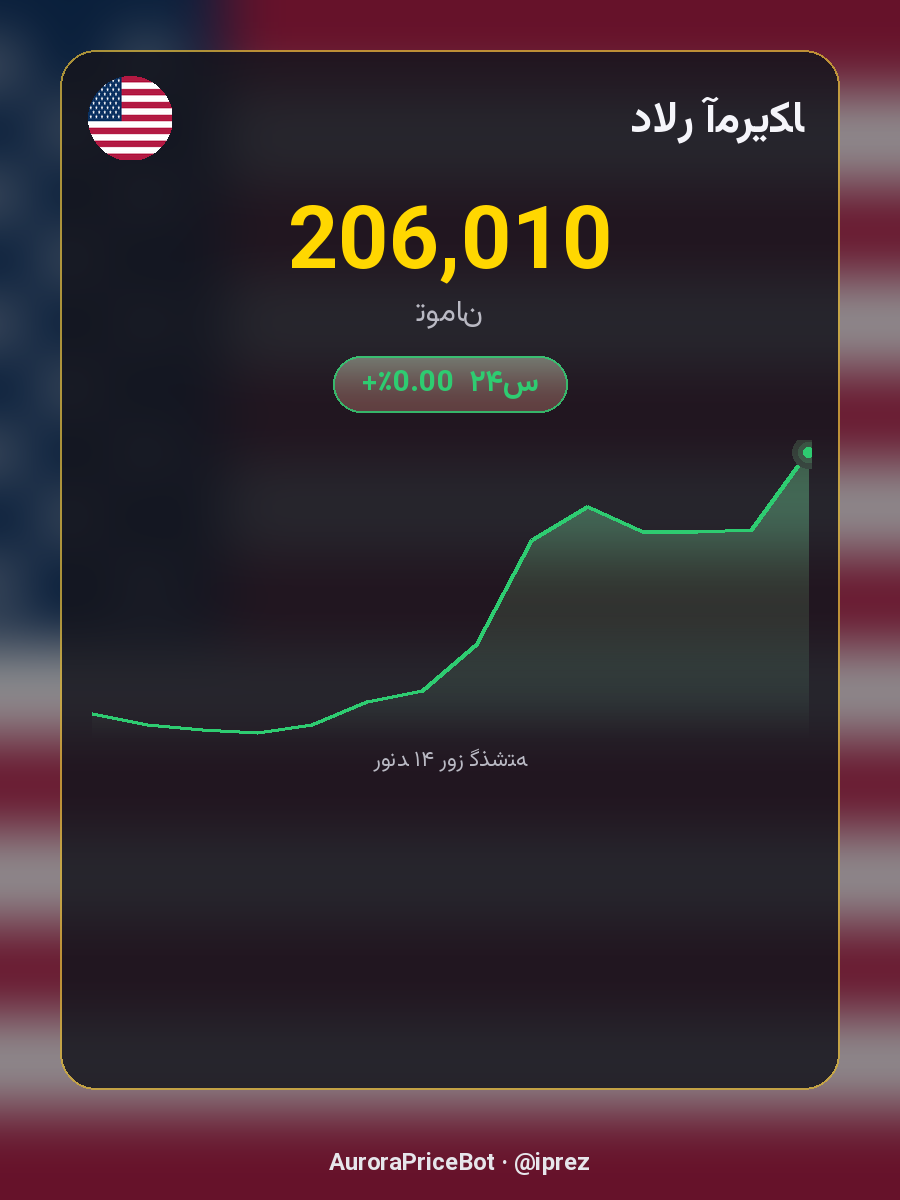
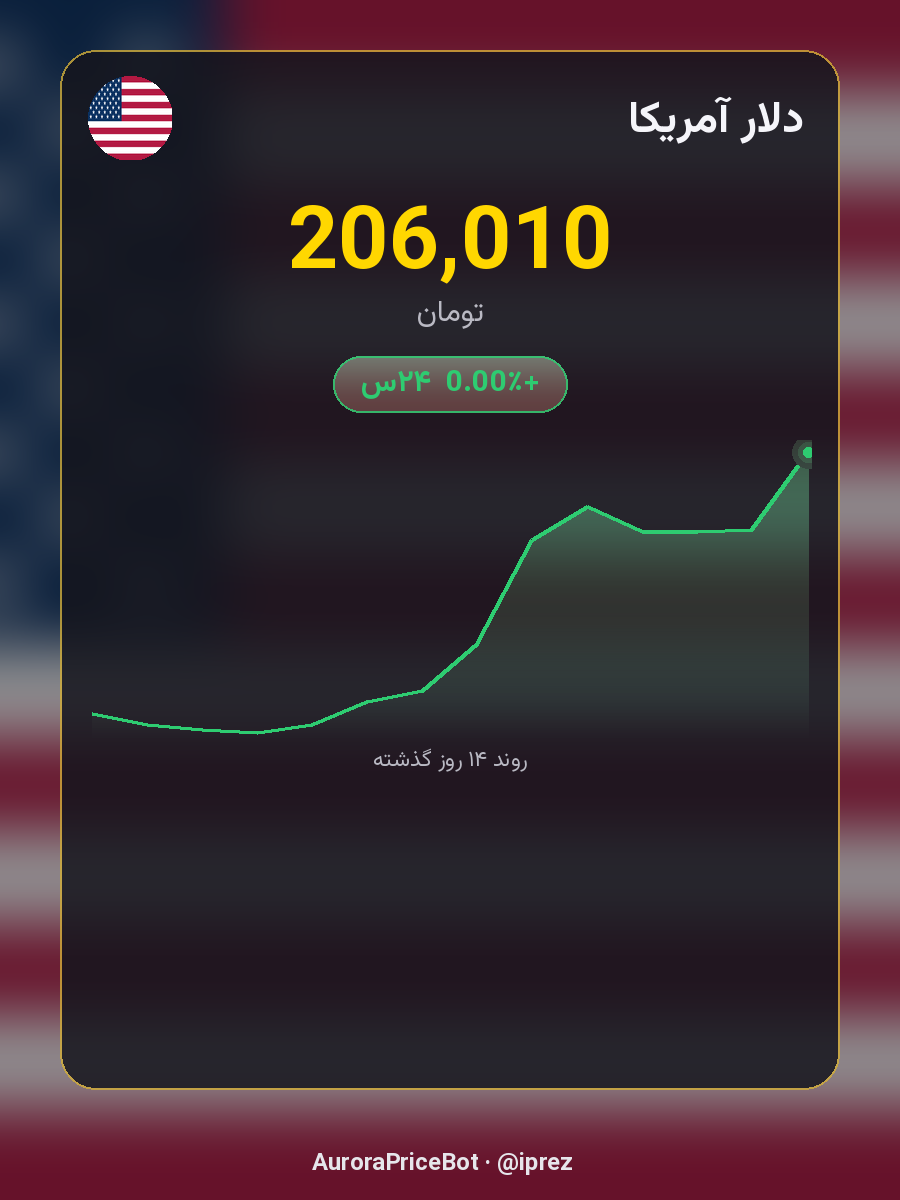
fix: Persian text direction — use libraqm direction='rtl' (bidi was reversing)

diff --git a/banner.py b/banner.py
@@ -27,9 +27,8 @@ W, H = 900, 1200
 
 
 def _fa(text: str) -> str:
-    import arabic_reshaper
-    from bidi.algorithm import get_display
-    return get_display(arabic_reshaper.reshape(str(text)))
+    """متن فارسی خام — چون از direction='rtl' در PIL (libraqm) استفاده میکنیم."""
+    return str(text)
 
 
 def _font(size: int, weight: str = "m") -> ImageFont.FreeTypeFont:
@@ -180,7 +179,7 @@ def render_banner(code: str) -> Optional[bytes]:
     # --- عنوان + پرچم ---
     f_title = _font(44, "b")
     title = data["name"]
-    cd.text((cw - 36, y), _fa(title), font=f_title, fill=WHITE, anchor="ra")
+    cd.text((cw - 36, y), _fa(title), font=f_title, fill=WHITE, anchor="ra", direction='rtl')
 
     # پرچم/آیکون دایرهای
     icon_img = _fetch_bg_image(code)
@@ -203,10 +202,10 @@ def render_banner(code: str) -> Optional[bytes]:
     f_price = _font(88, "b")
     unit = data["unit"]
     price_txt = f"{_fmt(price)} {unit if unit=='دلار' else ''}".strip()
-    cd.text((cw // 2, y + 50), _fa(price_txt), font=f_price, fill=GOLD_BRIGHT, anchor="mm")
+    cd.text((cw // 2, y + 50), _fa(price_txt), font=f_price, fill=GOLD_BRIGHT, anchor="mm", direction='rtl')
     if unit == "تومان":
         f_unit = _font(30, "r")
-        cd.text((cw // 2, y + 118), _fa("تومان"), font=f_unit, fill=GRAY, anchor="mm")
+        cd.text((cw // 2, y + 118), _fa("تومان"), font=f_unit, fill=GRAY, anchor="mm", direction='rtl')
     y += 160
 
     # --- باکس تغییرات ---
@@ -221,7 +220,7 @@ def render_banner(code: str) -> Optional[bytes]:
         bx2 = cw // 2 + tw / 2 + 28
         cd.rounded_rectangle((bx1, y, bx2, y + 56), radius=28, fill=color + (46,),
                              outline=color + (220,), width=2)
-        cd.text((cw // 2, y + 28), _fa(label), font=f_chg, fill=color, anchor="mm")
+        cd.text((cw // 2, y + 28), _fa(label), font=f_chg, fill=color, anchor="mm", direction='rtl')
         y += 84
 
     # --- نمودار ---
@@ -234,7 +233,7 @@ def render_banner(code: str) -> Optional[bytes]:
         # کپشن نمودار
         f_cap = _font(22, "r")
         cap = "روند ۱۴ روز گذشته" if unit == "تومان" else "روند ۷ روز گذشته (ساعتی)"
-        cd.text((cw // 2, y), _fa(cap), font=f_cap, fill=GRAY, anchor="mm")
+        cd.text((cw // 2, y), _fa(cap), font=f_cap, fill=GRAY, anchor="mm", direction='rtl')
         y += 40
 
     # ---- ترکیب نهایی ----
@@ -245,7 +244,7 @@ def render_banner(code: str) -> Optional[bytes]:
     od = ImageDraw.Draw(out)
     f_wm = _font(24, "b")
     od.text((W // 2, H - 36), _fa("⭐ AuroraPriceBot · @iprez"),
-            font=f_wm, fill=(230, 230, 235, 200), anchor="mm")
+            font=f_wm, fill=(230, 230, 235, 200), anchor="mm", direction='rtl')
 
     buf = io.BytesIO()
     out.convert("RGB").save(buf, "PNG", optimize=True)
